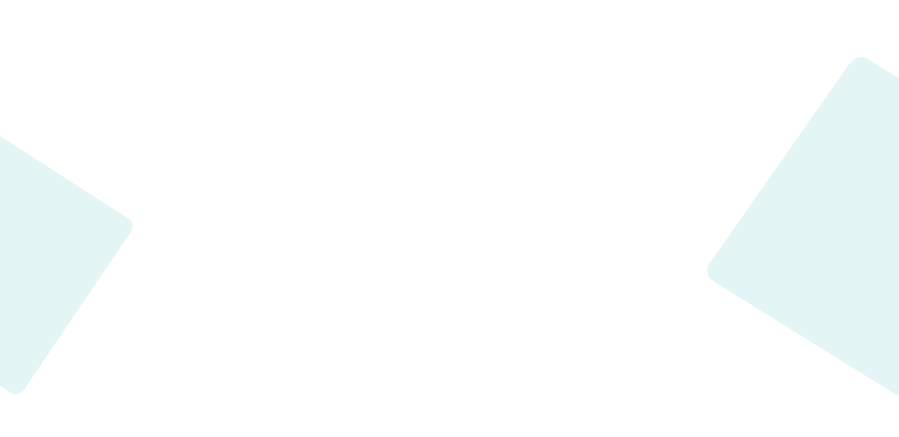
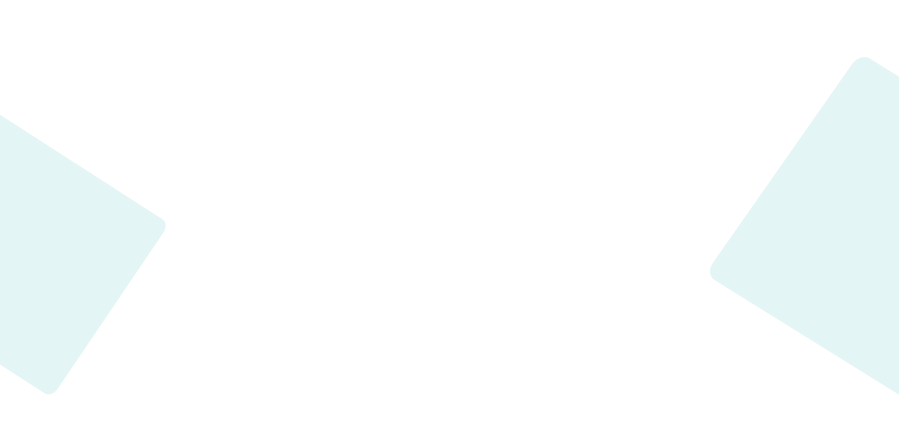
Add analytics and backgrounds

Changed region(s): [[0.0, 0.2677, 0.1869, 0.9222]]

diff --git a/_layouts/home.html b/_layouts/home.html
@@ -10,7 +10,7 @@ layout: default
     </div>
   </div>
 </section>
-<section class="landing bg-white">
+<section class="landing bg-white square-bg-red">
   <div class="container">
     <div class="row">
       <div class="col-lg-12">
@@ -25,19 +25,19 @@ layout: default
     <div class="card-deck mt-4">
       <div class="card bg-gray conclutions-card card-blue">
         <div class="card-body text-center">
-          <p class="number">179.640</p>
+          <p class="number formatNumber">179640</p>
           <p class="card-text">México</p>
         </div>
       </div>
       <div class="card bg-gray conclutions-card card-blue">
         <div class="card-body text-center">
-          <p class="number">115.797</p>
+          <p class="number formatNumber">115797</p>
           <p class="card-text">Perú</p>
         </div>
       </div>
       <div class="card bg-gray conclutions-card card-blue">
         <div class="card-body text-center">
-          <p class="number">43.887</p>
+          <p class="number formatNumber">43887</p>
           <p class="card-text">Ecuador</p>
         </div>
       </div>
@@ -45,19 +45,19 @@ layout: default
     <div class="card-deck mt-4">
       <div class="card bg-gray conclutions-card card-blue">
         <div class="card-body text-center">
-          <p class="number">22.000</p>
+          <p class="number formatNumber">22000</p>
           <p class="card-text">Bolivia</p>
         </div>
       </div>
       <div class="card bg-gray conclutions-card card-blue">
         <div class="card-body text-center">
-          <p class="number">18.000</p>
+          <p class="number formatNumber">18000</p>
           <p class="card-text">Guatemala</p>
         </div>
       </div>
       <div class="card bg-gray conclutions-card card-blue">
         <div class="card-body text-center">
-          <p class="number">11.076</p>
+          <p class="number formatNumber">11076</p>
           <p class="card-text">Costa Rica</p>
         </div>
       </div>
@@ -208,7 +208,7 @@ layout: default
     </div>
   </div>
 </section>
-<section class="landing bg-white">
+<section class="landing bg-white square-bg-blue2">
   <div class="container">
     <div class="row">
       <div class="col-lg-12">
@@ -302,7 +302,7 @@ layout: default
     </div>
   </div>
 </section>
-<section class="landing bg-white">
+<section class="landing bg-white square-bg-red">
   <div class="container mb-4">
     <div class="row">
       <div class="col-lg-12">
@@ -312,7 +312,7 @@ layout: default
     </div>
   </div>
   <div class="container-fluid pr-5 pl-5">
-    <div class="row align-items-center justify-content-center">
+    <div class="row align-items-center justify-content-center circle-bg-red">
       <div class="col-lg-4 mb-4">
         <h5 class="mb-4">Las compras o adjudicaciones directas son ineficientes: A partir del análisis del número de episodios de compra directa se identificó como al final éstas terminan siendo más costosas que las compras que llevaron un proceso más largo de planeación.</h5>
       </div>
@@ -321,7 +321,7 @@ layout: default
       </div>
     </div>
 
-    <div class="row align-items-center justify-content-center">
+    <div class="row align-items-center justify-content-center circle-bg-red-right">
       <div class="col-lg-8 mb-4">
         <img class="img-fluid" src="{{ site.baseurl }}/assets/img/grafica_2.svg" alt="">
       </div>
@@ -330,7 +330,7 @@ layout: default
       </div>
     </div>
 
-    <div class="row align-items-center justify-content-center">
+    <div class="row align-items-center justify-content-center circle-bg-red">
       <div class="col-lg-4 mb-4">
         <h5 class="mb-4">Los países que tienen esquemas de tratamiento apegados a la lista de ARV que provee OPS, son significativamente más eficientes: Al clasificar los ARV en líneas de tratamiento se identificó como un país que usa los esquemas de tratamiento definidos por la OPS, tiene acceso a comprar toda su lista de ARV por medio de este mecanismo de compra lo que implica costos de adquisición más bajos, lo que podría resultar en ampliación de cobertura de tratamiento, o en mejoras en la calidad de vida para las personas que viven con VIH.</h5>
       </div>
@@ -339,7 +339,7 @@ layout: default
       </div>
     </div>
 
-    <div class="row align-items-center justify-content-center">
+    <div class="row align-items-center justify-content-center circle-bg-red-right">
       <div class="col-lg-8 mb-4">
         <img class="img-fluid" src="{{ site.baseurl }}/assets/img/grafica_4.svg" alt="">
       </div>
@@ -351,18 +351,7 @@ layout: default
   </div>
 </section>
 {%- include contracts.html -%}
-<section class="landing bg-white">
-  <div class="container">
-    <div class="row bg-red rounded bg-padding">
-      <div class="col-lg-12 text-center">
-        <h2>Informe</h2>
-        <p>Lorem ipsum dolor sit amet consectetur adipisicing elit. Ab mollitia cumque qui ducimus numquam eveniet, ex iure perspiciatis modi rerum ut autem dolorem, harum possimus, molestias quasi. Unde, qui quam.</p>
-        <a href="" class="btn btn-secondary">Descargar informe</a>
-      </div>
-    </div>
-  </div>
-</section>
-<section class="landing bg-white">
+<section class="landing bg-white square-bg-red">
   <div class="container">
     <div class="row">
       <div class="col-lg-12">
@@ -381,7 +370,7 @@ layout: default
     </div>
   </div>
 </section>
-<section class="landing bg-white">
+<section class="landing bg-white square-bg-blue">
   <div class="container">
     <div class="row">
       <div class="col-lg-12">

diff --git a/_sass/_home.scss b/_sass/_home.scss
@@ -5,7 +5,7 @@
     min-height: 35rem;
     padding-top: 48px !important;
     background: url('#{$bgHome}') center top no-repeat fixed;
-    background-size: 100% !important;
+    background-size: cover !important;
 }
 .arrow-down {
     width: 30px;
@@ -49,12 +49,19 @@
 }
 
 .landing-main-content {
-    h1,
+    h1{
+        color: #ffffff;
+        text-shadow: #49043F 4px 3px 1px;
+    }
     p {
         color: #ffffff;
+        text-shadow: #49043F 2px 2px 1px;
+        a {
+            text-shadow:  none;
+        }
     }
     .landing-text {
-        padding-top: 38%;
+        padding-top: 34%;
     }
 }
 section.landing,
@@ -132,6 +139,36 @@ section#contracts_page_landing {
 .bg-gray {
     background-color: $bg-gray;
 }
+
+.square-bg-blue {
+    position: relative;
+    width: 100%;
+    background: url('./img/complement-bg.png') center no-repeat scroll;
+    background-size: cover !important;
+}
+.square-bg-red {
+    position: relative;
+    width: 100%;
+    background: url('./img/complement-bg2.png') center no-repeat scroll;
+    background-size: cover !important;
+}
+.square-bg-blue2 {
+    position: relative;
+    width: 100%;
+    background: url('./img/complement-bg3.png') center no-repeat scroll;
+    background-size: cover !important;
+}
+.circle-bg-red,
+.circle-bg-red-right {
+    position: relative;
+    width: 100%;
+    background: url('./img/circlered1.png') left no-repeat scroll;
+    background-size: 25% !important;
+}
+.circle-bg-red-right {
+    background: url('./img/circlered1.png') right no-repeat scroll;
+}
+
 
 .text-blue {
     color: $blue;

diff --git a/_includes/header.html b/_includes/header.html
@@ -28,7 +28,7 @@
               <li class="nav-item"><a class="nav-link" href="https://guatemala.vivirconvih.org/">Guatemala</a></li>
               <li class="nav-item"><a class="nav-link" href="https://mexico.vivirconvih.org/">México</a></li>
               <li class="nav-item"><a class="nav-link" href="https://peru.vivirconvih.org/">Perú</a></li>
-              <li class="nav-item"><a class="btn btn-secondary" href="https://peru.vivirconvih.org/">Descargar informe</a></li>
+              <li class="nav-item"><a class="btn btn-secondary" href="https://vivirconvih.org/informevivirconvih.pdf">Descargar informe</a></li>
       </ul>
       {%- endif -%}
     </div>
@@ -62,7 +62,7 @@
             <li class="nav-item"><a class="nav-link" href="https://guatemala.vivirconvih.org/">Guatemala</a></li>
             <li class="nav-item"><a class="nav-link" href="https://mexico.vivirconvih.org/">México</a></li>
             <li class="nav-item"><a class="nav-link" href="https://peru.vivirconvih.org/">Perú</a></li>
-            <li class="nav-item"><a class="btn btn-secondary" href="https://peru.vivirconvih.org/">Descargar informe</a></li>
+            <li class="nav-item"><a class="btn btn-secondary" href="https://vivirconvih.org/informevivirconvih.pdf">Descargar informe</a></li>
             <li class="nav-item dropdown d-none">
                 <a class="nav-link dropdown-toggle" href="#" id="navbarDropdownMenu" role="button" data-toggle="dropdown" aria-haspopup="true" aria-expanded="false">
                   {{ site.menu_button_title | escape }}

diff --git a/_includes/head.html b/_includes/head.html
@@ -18,4 +18,13 @@
   <script>
     window.graphConfig = {{ site.graph | jsonify }};
   </script>
+  <!-- Global site tag (gtag.js) - Google Analytics -->
+  <script async src="https://www.googletagmanager.com/gtag/js?id=UA-130129701-1"></script>
+  <script>
+    window.dataLayer = window.dataLayer || [];
+    function gtag(){dataLayer.push(arguments);}
+    gtag('js', new Date());
+    
+    gtag('config', 'UA-130129701-1');
+  </script>
 </head>

diff --git a/assets/javascript/main.js b/assets/javascript/main.js
@@ -70,5 +70,8 @@ $(document).ready(function () {
         autocollapse('#nav',50); 
     });
 
+    $(".formatNumber").each(function(b,e) {
+        $(e).text(parseFloat($(e).text().replace(",","")).toLocaleString(navigator.language))
+    })
 
 });

diff --git a/_includes/contracts.html b/_includes/contracts.html
@@ -1,4 +1,4 @@
-<section id="contracts_page_landing" class="bg-white">
+<section id="contracts_page_landing" class="bg-white square-bg-blue">
     <div class="container">
         <div class="row">
             <div class="col-lg-12">

diff --git a/1-home.md b/1-home.md
@@ -4,7 +4,7 @@ title: Inicio
 permalink: /
 ---
 
-# Vivir con VIH
+# VIVIR CON VIH
 
 Tan sólo 1,3 millones de las 2,1 millones de personas que fueron diagnosticadas como seropositivas en América Latina, tienen acceso a tratamiento. Esta situación se está agravando por la nueva pandemia de la covid-19, según el análisis e investigación realizado por PODER y Salud con Lupa.
 
